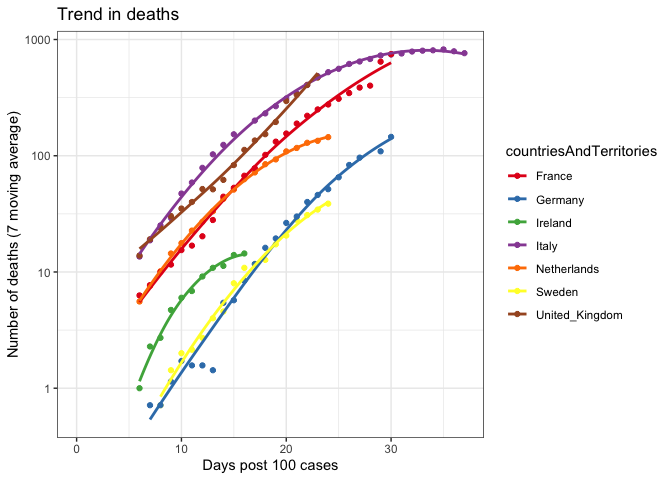
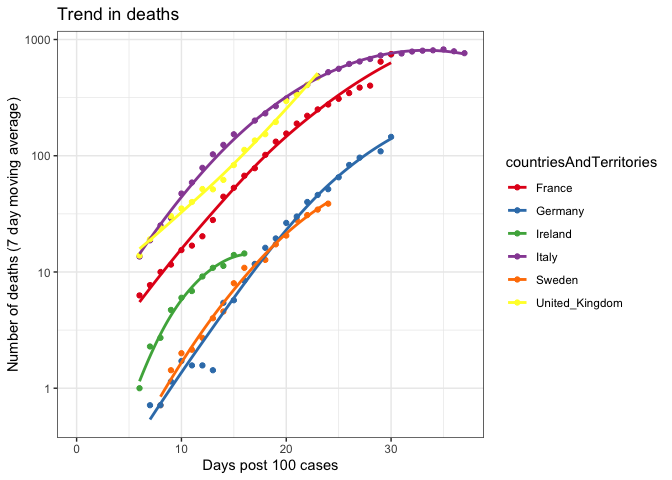
update countries

diff --git a/README.md b/README.md
@@ -50,7 +50,6 @@ country = c('Ireland',
             'Italy',
             'Sweden',
             'United_Kingdom',
-            'Netherlands', 
             'Germany',
             'France')
 
@@ -64,7 +63,7 @@ time it takes for deaths and cases to be registered, etc.
 
 ``` r
 dayWindow = 7
-rollingStr = paste0('(',dayWindow,' moving average)')  # String for graph labels
+rollingStr = paste0('(',dayWindow,' day moving average)')  # String for graph labels
 for (i in 1:length(country)) {
   tmp=subset(d2, countriesAndTerritories==country[i])
   tmp$deaths_rolling = rollmean(tmp$deaths, k=dayWindow, align='right', fill=NA)
@@ -83,28 +82,28 @@ for (i in 1:length(country)) {
 
 ### Temporal trends
 
-    ## Warning: Removed 42 rows containing non-finite values (stat_smooth).
+    ## Warning: Removed 36 rows containing non-finite values (stat_smooth).
 
-    ## Warning: Removed 42 rows containing missing values (geom_point).
+    ## Warning: Removed 36 rows containing missing values (geom_point).
 
 ![](README_files/figure-gfm/unnamed-chunk-5-1.png)<!-- -->
 
-    ## Warning: Removed 42 rows containing non-finite values (stat_smooth).
+    ## Warning: Removed 36 rows containing non-finite values (stat_smooth).
 
-    ## Warning: Removed 42 rows containing missing values (geom_point).
+    ## Warning: Removed 36 rows containing missing values (geom_point).
 
 ![](README_files/figure-gfm/unnamed-chunk-6-1.png)<!-- -->
 
-    ## Warning: Removed 42 rows containing non-finite values (stat_smooth).
+    ## Warning: Removed 36 rows containing non-finite values (stat_smooth).
 
-    ## Warning: Removed 42 rows containing missing values (geom_point).
+    ## Warning: Removed 36 rows containing missing values (geom_point).
 
 ![](README_files/figure-gfm/unnamed-chunk-7-1.png)<!-- -->
 
 ### Epidemic indicator
 
-    ## Warning: Removed 42 rows containing non-finite values (stat_smooth).
+    ## Warning: Removed 36 rows containing non-finite values (stat_smooth).
 
-    ## Warning: Removed 42 rows containing missing values (geom_point).
+    ## Warning: Removed 36 rows containing missing values (geom_point).
 
 ![](README_files/figure-gfm/unnamed-chunk-8-1.png)<!-- -->
